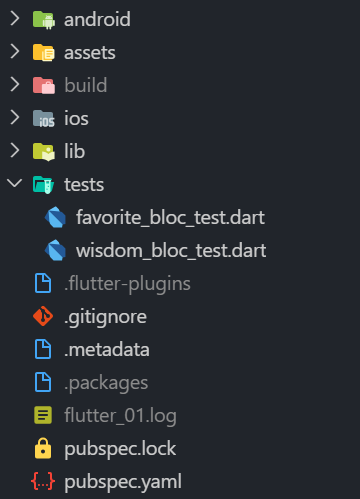
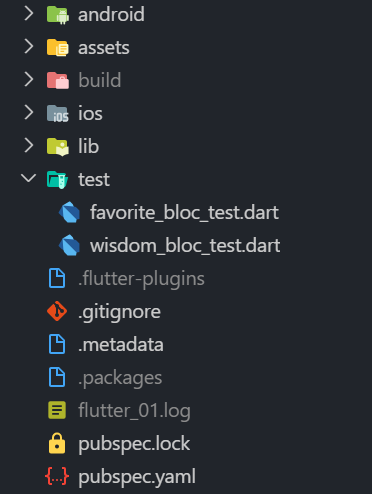
matcher

Changed region(s): [[0.0306, 0.0, 0.7639, 1.0], [0.0306, 0.3644, 0.0611, 0.3947]]

diff --git a/.raw-text/raw-temp.md b/.raw-text/raw-temp.md
@@ -25,7 +25,7 @@ Integration Test/Driver Tests run your entire application in a virtual machine o
 _Figure XXX: Flutter Test Comparison [[@flutterdevteamTestingFlutterApps2018]](https://flutter.dev/docs/testing)_
 
 ## Writing Unit Tests
-I will focus on _Unit Tests_ for this guide. The Flutter Team recommends that the majority of Flutter tests should be Unit Test [@hracekTestingFlutterApps2019; @flutterdevteamTestingFlutterApps2018]. This is because the fact that they are quick to write and quick to execute makes up for their relatively low _confidence_. In addition to this, because we are using the BLoC Pattern, our UI shouldn't contain that much testable code anyways. Or to paraphrase the BLoC pattern creator: We keep our UI so _stupid_ we don't need to test it [[@soaresFlutterAngularDartCode2018]](https://www.youtube.com/watch?v=PLHln7wHgPE). First we have to import the test library [[@dartteamTestDartPackage2019]](https://pub.dev/packages/test) and the mockito package [[@fibulwinterMockitoDartPackage2019]](https://pub.dev/packages/mockito) in our _pubspec.yaml_:
+I will focus on _Unit Tests_ for this guide. The Flutter Team recommends that the majority of Flutter tests should be Unit Test [@hracekTestingFlutterApps2019; @flutterdevteamTestingFlutterApps2018]. The fact that they are quick to write and quick to execute makes up for their relatively low _confidence_. In addition to this, because we are using the BLoC Pattern, our UI shouldn't contain that much testable code anyways. Or to paraphrase the BLoC pattern creator: We keep our UI so _stupid_ we don't need to test it [[@soaresFlutterAngularDartCode2018]](https://www.youtube.com/watch?v=PLHln7wHgPE). First we have to import the test library [[@dartteamTestDartPackage2019]](https://pub.dev/packages/test) and the mockito package [[@fibulwinterMockitoDartPackage2019]](https://pub.dev/packages/mockito) in our _pubspec.yaml_:
 
 ```yaml
 dev_dependencies:
@@ -35,7 +35,7 @@ dev_dependencies:
 ```
 _Code Snippet XXX: Pubspec.yaml Test Imports_
 
-_flutter\_test_ offers the core testing capabilities of Flutter, _mockito_ is used to mock up dependencies. Now place a new directory called _"tests"_ on the root level of our app directory:
+_flutter\_test_ offers the core testing capabilities of Flutter. _mockito_ is used to mock up dependencies. All out tests should sit in a directory names _"test"_ on the root level of our app directory. If we want to place them somewhere else, we have to specify their location every time we want to run them.
 
 ![Wisgen Test Directory](https://github.com/Fasust/flutter-guide/wiki//images/wisgen-test-dir.PNG)
 
@@ -44,7 +44,8 @@ _Figure XXX: Wisgen Test Directory [[@faustWisgen2019]](https://github.com/Fasus
 | ⚠   | All testfiles have to end with the postfix "_test.dart" to be recognized by the framework [[@hracekTestingFlutterApps2019]](https://www.youtube.com/watch?v=bj-oMYyLZEY&). |
 | --- | :------------------------------------------------------------------------------------------------------------------------------------------------------------------------- |
 
-Now we can start writing our tests. For this example, I will test the favortie BLoC of Wisgen [[@faustWisgen2019]](https://github.com/Fasust/wisgen):
+Now we can start writing our tests. For this example, I will test the favorite BLoC of Wisgen [[@faustWisgen2019]](https://github.com/Fasust/wisgen):
+
 ```dart
 void main() {
 
@@ -73,7 +74,7 @@ void main() {
 ```
 _Code Snippet XXX: Wisgen Favorite BLoC Tests 1 [[@faustWisgen2019]](https://github.com/Fasust/wisgen)_
 
-We can use the _group()_ function to group realted tests together. This way the output if our tests is more neatly formated [[@hracekTestingFlutterApps2019]](https://www.youtube.com/watch?v=bj-oMYyLZEY&). _setUp()_ is called once before every test, so it is perfect for initializing our BLoC [[@angelovUnitTestingBloc2019]](https://medium.com/flutter-community/unit-testing-with-bloc-b94de9655d86). _tearDown()_ is called after every test, so we can use it to dispose our BLoC. The _test()_ function takes in a name and a callback with the test. In our test, we check if the state of the favorite BloC after initalization is an empty list. _expect()_ takes in the actual value and the value that is expected: `expect(actual, matcher)`. 
+We can use the _group()_ function to group related tests together. This way the output if our tests is more neatly formated [[@hracekTestingFlutterApps2019]](https://www.youtube.com/watch?v=bj-oMYyLZEY&). _setUp()_ is called once before every test, so it is perfect for initializing our BLoC [[@angelovUnitTestingBloc2019]](https://medium.com/flutter-community/unit-testing-with-bloc-b94de9655d86). _tearDown()_ is called after every test, so we can use it to dispose of our BLoC. The _test()_ function takes in a name and a callback with the actual test. In our test, we check if the state of the favorite BloC after initialization is an empty list. _expect()_ takes in the actual value and the value that is expected: `expect(actual, matcher)`. We can run all our tests using the command `flutter test`.
 
 ### Testing Streams
 Now a more relevant topic when working with the BLoC Pattern, the testing of Streams [[@dartteamDartStreams2019]](https://dart.dev/tutorials/language/streams):
@@ -119,7 +120,15 @@ void main() {
 ```
 _Code Snippet XXX: Wisgen Favorite BLoC Tests 2 [[@faustWisgen2019]](https://github.com/Fasust/wisgen)_
 
-In this test, we create three wisdoms and add/remove them from the favorite BLoC by sending the corresponding events. We then wrap our _matcher_ in the _emitsInOrder()_ function. This tells the framework that we are working with a stream and looking for specific set of events to be emitted in order [[@angelovUnitTestingBloc2019]](https://medium.com/flutter-community/unit-testing-with-bloc-b94de9655d86).
+In this test, we create three wisdoms and add/remove them from the favorite BLoC by sending the corresponding events. We use the _emitsInOrder()_ _matcher_ to tell the framework that we are working with a stream and looking for specific set of events to be emitted in order [[@angelovUnitTestingBloc2019]](https://medium.com/flutter-community/unit-testing-with-bloc-b94de9655d86). The Flutters test framework also offers many other stream matchers besides _emitsInOrder()_ [[@dartteamAsynchronoustestsTestDart2019]](https://pub.dev/packages/test#asynchronous-tests):
+
+- _emits()_ matches a single data event.
+- _emitsError()_ matches a single error event.
+- _emitsDone_ matches a single done event.
+- _emitsAnyOf()_ consumes events matching one (or more) of several possible matchers.
+- _emitsInAnyOrder()_ works like emitsInOrder(), but it allows the matchers to match in any order.
+- _neverEmits()_ matches a stream that finishes without matching an inner matcher.
+- And more [[@dartteamAsynchronoustestsTestDart2019]](https://pub.dev/packages/test#asynchronous-tests)
 
 ### Mockito
 

diff --git a/.raw-text/gfm-guide.md b/.raw-text/gfm-guide.md
@@ -29,7 +29,7 @@ Integration Test/Driver Tests run your entire application in a virtual machine o
 
 ## Writing Unit Tests
 
-I will focus on *Unit Tests* for this guide. The Flutter Team recommends that the majority of Flutter tests should be Unit Test \[5\], \[6\]. This is because the fact that they are quick to write and quick to execute makes up for their relatively low *confidence*. In addition to this, because we are using the BLoC Pattern, our UI shouldn’t contain that much testable code anyways. Or to paraphrase the BLoC pattern creator: We keep our UI so *stupid* we don’t need to test it [\[3\]](https://www.youtube.com/watch?v=PLHln7wHgPE). First we have to import the test library [\[4\]](https://pub.dev/packages/test) and the mockito package [\[7\]](https://pub.dev/packages/mockito) in our *pubspec.yaml*:
+I will focus on *Unit Tests* for this guide. The Flutter Team recommends that the majority of Flutter tests should be Unit Test \[5\], \[6\]. The fact that they are quick to write and quick to execute makes up for their relatively low *confidence*. In addition to this, because we are using the BLoC Pattern, our UI shouldn’t contain that much testable code anyways. Or to paraphrase the BLoC pattern creator: We keep our UI so *stupid* we don’t need to test it [\[3\]](https://www.youtube.com/watch?v=PLHln7wHgPE). First we have to import the test library [\[4\]](https://pub.dev/packages/test) and the mockito package [\[7\]](https://pub.dev/packages/mockito) in our *pubspec.yaml*:
 
 ``` yaml
 dev_dependencies:
@@ -40,7 +40,7 @@ dev_dependencies:
 
 *Code Snippet XXX: Pubspec.yaml Test Imports*
 
-*flutter\_test* offers the core testing capabilities of Flutter, *mockito* is used to mock up dependencies. Now place a new directory called *“tests”* on the root level of our app directory:
+*flutter\_test* offers the core testing capabilities of Flutter. *mockito* is used to mock up dependencies. All out tests should sit in a directory names *“test”* on the root level of our app directory. If we want to place them somewhere else, we have to specify their location every time we want to run them.
 
 ![Wisgen Test Directory](https://github.com/Fasust/flutter-guide/wiki//images/wisgen-test-dir.PNG)
 
@@ -49,7 +49,7 @@ dev_dependencies:
 | ⚠ | All testfiles have to end with the postfix "\_test.dart" to be recognized by the framework [\[5\]](https://www.youtube.com/watch?v=bj-oMYyLZEY&). |
 | - | :------------------------------------------------------------------------------------------------------------------------------------------------ |
 
-Now we can start writing our tests. For this example, I will test the favortie BLoC of Wisgen [\[8\]](https://github.com/Fasust/wisgen):
+Now we can start writing our tests. For this example, I will test the favorite BLoC of Wisgen [\[8\]](https://github.com/Fasust/wisgen):
 
 ``` dart
 void main() {
@@ -80,7 +80,7 @@ void main() {
 
 *Code Snippet XXX: Wisgen Favorite BLoC Tests 1 [\[8\]](https://github.com/Fasust/wisgen)*
 
-We can use the *group()* function to group realted tests together. This way the output if our tests is more neatly formated [\[5\]](https://www.youtube.com/watch?v=bj-oMYyLZEY&). *setUp()* is called once before every test, so it is perfect for initializing our BLoC [\[9\]](https://medium.com/flutter-community/unit-testing-with-bloc-b94de9655d86). *tearDown()* is called after every test, so we can use it to dispose our BLoC. The *test()* function takes in a name and a callback with the test. In our test, we check if the state of the favorite BloC after initalization is an empty list. *expect()* takes in the actual value and the value that is expected: `expect(actual, matcher)`.
+We can use the *group()* function to group related tests together. This way the output if our tests is more neatly formated [\[5\]](https://www.youtube.com/watch?v=bj-oMYyLZEY&). *setUp()* is called once before every test, so it is perfect for initializing our BLoC [\[9\]](https://medium.com/flutter-community/unit-testing-with-bloc-b94de9655d86). *tearDown()* is called after every test, so we can use it to dispose of our BLoC. The *test()* function takes in a name and a callback with the actual test. In our test, we check if the state of the favorite BloC after initialization is an empty list. *expect()* takes in the actual value and the value that is expected: `expect(actual, matcher)`. We can run all our tests using the command `flutter test`.
 
 ### Testing Streams
 
@@ -128,7 +128,15 @@ void main() {
 
 *Code Snippet XXX: Wisgen Favorite BLoC Tests 2 [\[8\]](https://github.com/Fasust/wisgen)*
 
-In this test, we create three wisdoms and add/remove them from the favorite BLoC by sending the corresponding events. We then wrap our *matcher* in the *emitsInOrder()* function. This tells the framework that we are working with a stream and looking for specific set of events to be emitted in order [\[9\]](https://medium.com/flutter-community/unit-testing-with-bloc-b94de9655d86).
+In this test, we create three wisdoms and add/remove them from the favorite BLoC by sending the corresponding events. We use the *emitsInOrder()* *matcher* to tell the framework that we are working with a stream and looking for specific set of events to be emitted in order [\[9\]](https://medium.com/flutter-community/unit-testing-with-bloc-b94de9655d86). The Flutters test framework also offers many other stream matchers besides *emitsInOrder()* [\[11\]](https://pub.dev/packages/test#asynchronous-tests):
+
+  - *emits()* matches a single data event.
+  - *emitsError()* matches a single error event.
+  - *emitsDone* matches a single done event.
+  - *emitsAnyOf()* consumes events matching one (or more) of several possible matchers.
+  - *emitsInAnyOrder()* works like emitsInOrder(), but it allows the matchers to match in any order.
+  - *neverEmits()* matches a stream that finishes without matching an inner matcher.
+  - And more [\[11\]](https://pub.dev/packages/test#asynchronous-tests)
 
 ### Mockito
 
@@ -272,6 +280,12 @@ class IdleWisdomState extends WisdomState {
 <div id="ref-dartteamDartStreams2019">
 
 \[10\] Dart Team, “Dart Streams,” 2019. \[Online\]. Available: <https://dart.dev/tutorials/language/streams>. \[Accessed: 20-Sep-2019\]
+
+</div>
+
+<div id="ref-dartteamAsynchronoustestsTestDart2019">
+
+\[11\] Dart Team, “Asynchronous-tests with the test Dart Package,” *Dart packages*, 2019. \[Online\]. Available: <https://pub.dev/packages/test#asynchronous-tests>. \[Accessed: 11-Oct-2019\]
 
 </div>
 

diff --git a/pages/300-Testing.md b/pages/300-Testing.md
@@ -37,7 +37,7 @@ Integration Test/Driver Tests run your entire application in a virtual machine o
 
 ## Writing Unit Tests
 
-I will focus on *Unit Tests* for this guide. The Flutter Team recommends that the majority of Flutter tests should be Unit Test \[5\], \[6\]. This is because the fact that they are quick to write and quick to execute makes up for their relatively low *confidence*. In addition to this, because we are using the BLoC Pattern, our UI shouldn’t contain that much testable code anyways. Or to paraphrase the BLoC pattern creator: We keep our UI so *stupid* we don’t need to test it [\[3\]](https://www.youtube.com/watch?v=PLHln7wHgPE). First we have to import the test library [\[4\]](https://pub.dev/packages/test) and the mockito package [\[7\]](https://pub.dev/packages/mockito) in our *pubspec.yaml*:
+I will focus on *Unit Tests* for this guide. The Flutter Team recommends that the majority of Flutter tests should be Unit Test \[5\], \[6\]. The fact that they are quick to write and quick to execute makes up for their relatively low *confidence*. In addition to this, because we are using the BLoC Pattern, our UI shouldn’t contain that much testable code anyways. Or to paraphrase the BLoC pattern creator: We keep our UI so *stupid* we don’t need to test it [\[3\]](https://www.youtube.com/watch?v=PLHln7wHgPE). First we have to import the test library [\[4\]](https://pub.dev/packages/test) and the mockito package [\[7\]](https://pub.dev/packages/mockito) in our *pubspec.yaml*:
 
 ``` yaml
 dev_dependencies:
@@ -48,7 +48,7 @@ dev_dependencies:
 
 *Code Snippet XXX: Pubspec.yaml Test Imports*
 
-*flutter\_test* offers the core testing capabilities of Flutter, *mockito* is used to mock up dependencies. Now place a new directory called *“tests”* on the root level of our app directory:
+*flutter\_test* offers the core testing capabilities of Flutter. *mockito* is used to mock up dependencies. All out tests should sit in a directory names *“test”* on the root level of our app directory. If we want to place them somewhere else, we have to specify their location every time we want to run them.
 
 ![Wisgen Test Directory](https://github.com/Fasust/flutter-guide/wiki//images/wisgen-test-dir.PNG)
 
@@ -57,7 +57,7 @@ dev_dependencies:
 | ⚠ | All testfiles have to end with the postfix "\_test.dart" to be recognized by the framework [\[5\]](https://www.youtube.com/watch?v=bj-oMYyLZEY&). |
 | - | :------------------------------------------------------------------------------------------------------------------------------------------------ |
 
-Now we can start writing our tests. For this example, I will test the favortie BLoC of Wisgen [\[8\]](https://github.com/Fasust/wisgen):
+Now we can start writing our tests. For this example, I will test the favorite BLoC of Wisgen [\[8\]](https://github.com/Fasust/wisgen):
 
 ``` dart
 void main() {
@@ -88,7 +88,7 @@ void main() {
 
 *Code Snippet XXX: Wisgen Favorite BLoC Tests 1 [\[8\]](https://github.com/Fasust/wisgen)*
 
-We can use the *group()* function to group realted tests together. This way the output if our tests is more neatly formated [\[5\]](https://www.youtube.com/watch?v=bj-oMYyLZEY&). *setUp()* is called once before every test, so it is perfect for initializing our BLoC [\[9\]](https://medium.com/flutter-community/unit-testing-with-bloc-b94de9655d86). *tearDown()* is called after every test, so we can use it to dispose our BLoC. The *test()* function takes in a name and a callback with the test. In our test, we check if the state of the favorite BloC after initalization is an empty list. *expect()* takes in the actual value and the value that is expected: `expect(actual, matcher)`.
+We can use the *group()* function to group related tests together. This way the output if our tests is more neatly formated [\[5\]](https://www.youtube.com/watch?v=bj-oMYyLZEY&). *setUp()* is called once before every test, so it is perfect for initializing our BLoC [\[9\]](https://medium.com/flutter-community/unit-testing-with-bloc-b94de9655d86). *tearDown()* is called after every test, so we can use it to dispose of our BLoC. The *test()* function takes in a name and a callback with the actual test. In our test, we check if the state of the favorite BloC after initialization is an empty list. *expect()* takes in the actual value and the value that is expected: `expect(actual, matcher)`. We can run all our tests using the command `flutter test`.
 
 ### Testing Streams
 
@@ -136,7 +136,15 @@ void main() {
 
 *Code Snippet XXX: Wisgen Favorite BLoC Tests 2 [\[8\]](https://github.com/Fasust/wisgen)*
 
-In this test, we create three wisdoms and add/remove them from the favorite BLoC by sending the corresponding events. We then wrap our *matcher* in the *emitsInOrder()* function. This tells the framework that we are working with a stream and looking for specific set of events to be emitted in order [\[9\]](https://medium.com/flutter-community/unit-testing-with-bloc-b94de9655d86).
+In this test, we create three wisdoms and add/remove them from the favorite BLoC by sending the corresponding events. We use the *emitsInOrder()* *matcher* to tell the framework that we are working with a stream and looking for specific set of events to be emitted in order [\[9\]](https://medium.com/flutter-community/unit-testing-with-bloc-b94de9655d86). The Flutters test framework also offers many other stream matchers besides *emitsInOrder()* [\[11\]](https://pub.dev/packages/test#asynchronous-tests):
+
+  - *emits()* matches a single data event.
+  - *emitsError()* matches a single error event.
+  - *emitsDone* matches a single done event.
+  - *emitsAnyOf()* consumes events matching one (or more) of several possible matchers.
+  - *emitsInAnyOrder()* works like emitsInOrder(), but it allows the matchers to match in any order.
+  - *neverEmits()* matches a stream that finishes without matching an inner matcher.
+  - And more [\[11\]](https://pub.dev/packages/test#asynchronous-tests)
 
 ### Mockito
 

diff --git a/pages/_Ref-Dump.md b/pages/_Ref-Dump.md
@@ -61,6 +61,12 @@
 
 </div>
 
+<div id="ref-dartteamAsynchronoustestsTestDart2019">
+
+\[11\] Dart Team, “Asynchronous-tests with the test Dart Package,” *Dart packages*, 2019. \[Online\]. Available: <https://pub.dev/packages/test#asynchronous-tests>. \[Accessed: 11-Oct-2019\]
+
+</div>
+
 </div>
 <p align="right"><a href="https://github.com/Fasust/flutter-guide/wiki/100-The-Flutter-Framework">Next Chapter: The Flutter Framework ></a></p>
 <p align="center"><a href="#">Back to Top</a></p>
